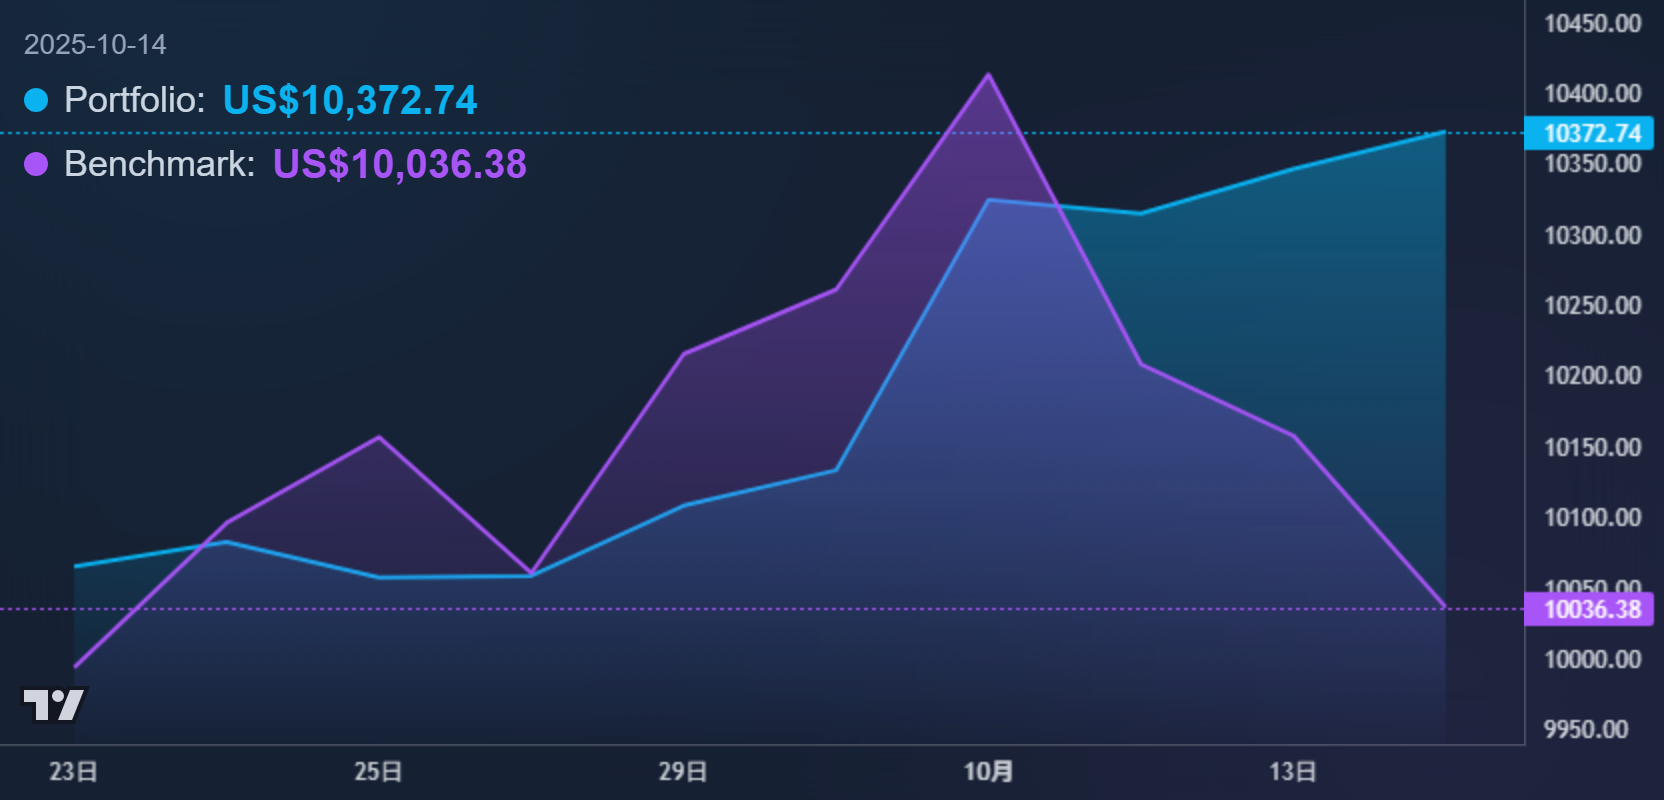
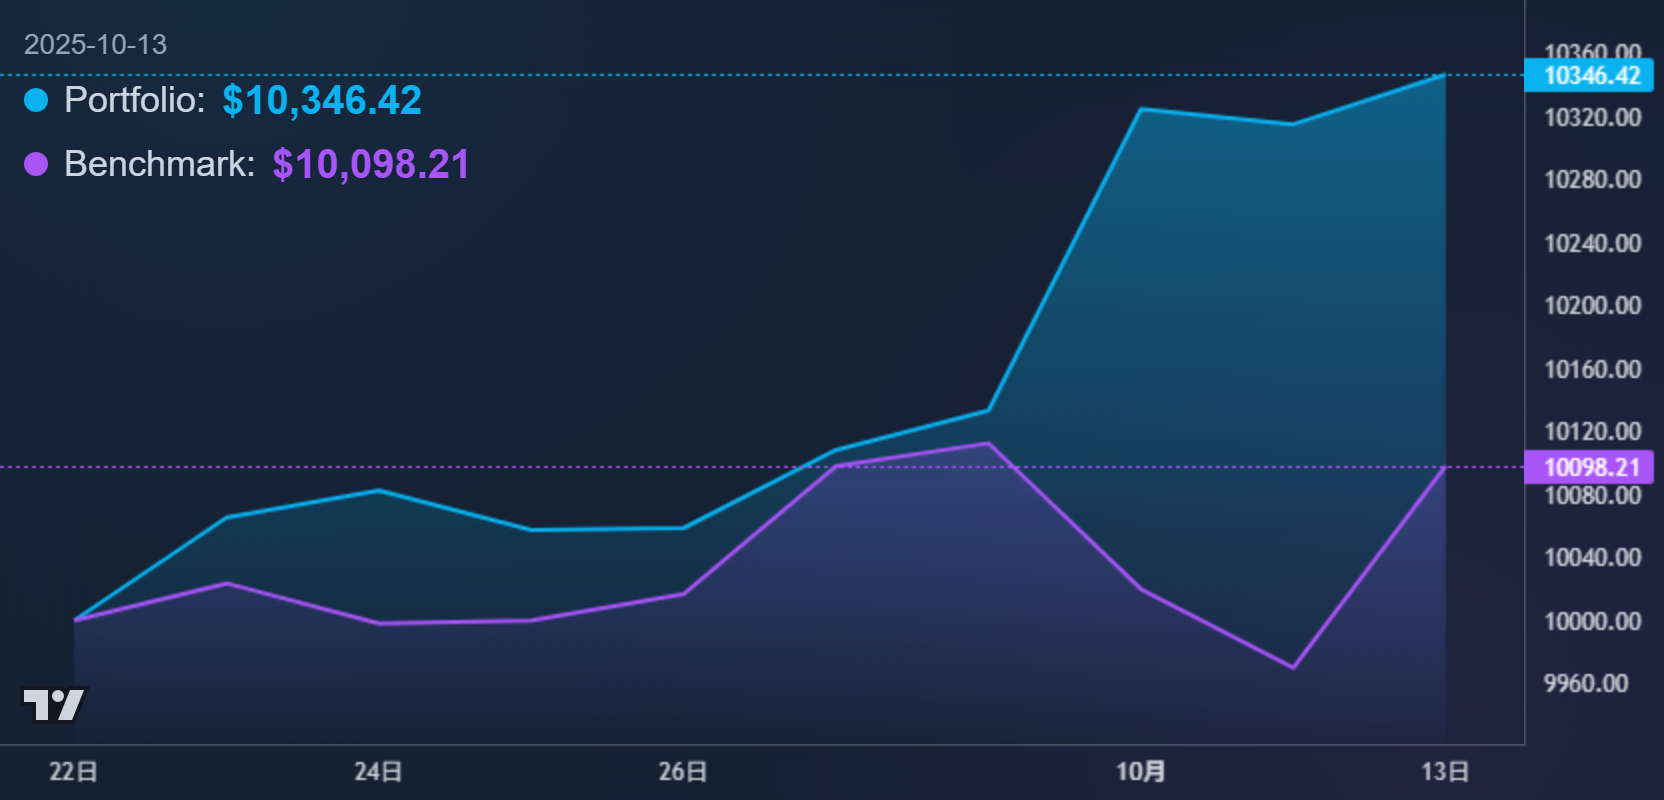
feat(数据生成): 更新基准ticker为ALLW并改进回测逻辑
- 将基准ticker从000300更改为ALLW
- 使用美国东部时间检查缓存有效性
- 添加起始点数据到图表数据中
- 根据基准最新日期对齐回测结束日期
- 更新前端显示基准ticker名称

diff --git a/pages/index.html b/pages/index.html
@@ -163,6 +163,8 @@
     </footer>
 
     <script>
+      let benchmarkTickerName = "Benchmark";
+
       document.addEventListener("DOMContentLoaded", () => {
         fetch("data.json", { cache: "no-store" }) // Use no-store to avoid caching of the data file
           .then((response) => {
@@ -243,7 +245,8 @@
           data.initialCapital.toLocaleString("en-US");
         document.getElementById("benchmark-ticker").textContent =
           data.benchmarkTicker;
-
+        benchmarkTickerName = data.benchmarkTicker;
+        //console.log(benchmarkTickerName);
         // --- Populate Metrics Table ---
         const m = data.metrics;
         setMetric("metric-total-return", m["Total Return"]);
@@ -335,7 +338,7 @@
                     </div>
                     <div class="flex items-center mt-1">
                         <div class="w-3 h-3 rounded-full bg-[#a855f7] mr-2"></div>
-                        <span class="text-slate-300 mr-2 text-lg">Benchmark:</span>
+                        <span class="text-slate-300 mr-2 text-lg">${benchmarkTickerName}:</span>
                         <span class="font-bold text-xl text-[#a855f7]">${bPrice}</span>
                     </div>
                 `;

diff --git a/generate_report.py b/generate_report.py
@@ -13,6 +13,7 @@ from playwright.sync_api import sync_playwright
 import threading
 import http.server
 import socketserver
+from zoneinfo import ZoneInfo # 新增导入，用于处理时区
 
 # --- 配置参数 ---
 
@@ -21,7 +22,8 @@ if not API_KEY:
     raise ValueError("ALPHAVANTAGE_API_KEY environment variable not set.")
 CACHE_DIR = "data_cache"
 TICKERS = ['513110.SHH', '518660.SHH', '159649.SHZ', '515450.SHH']
-BENCHMARK_TICKER = '000300.SHH'
+# 修改: 基准 Ticker 更改为 ALLW
+BENCHMARK_TICKER = 'ALLW'
 WEIGHTS = [0.25, 0.25, 0.25, 0.25]
 INITIAL_CAPITAL = 10000
 START_DATE = "2025-09-22"
@@ -31,8 +33,9 @@ OUTPUT_HTML_PATH = "pages/index.html"
 OUTPUT_JSON_PATH = "pages/data.json"
 
 
-# --- 数据获取模块 (保持不变) ---
+# --- 数据获取模块 ---
 def fetch_data_from_api(ticker, output_size='full'):
+    # ... (此函数保持不变) ...
     print(f"\n--- Attempting to fetch data for {ticker} from API (outputsize={output_size}) ---")
     url = f'https://www.alphavantage.co/query?function=TIME_SERIES_DAILY&symbol={ticker}&apikey={API_KEY}'
     if output_size == 'full':
@@ -56,7 +59,7 @@ def fetch_data_from_api(ticker, output_size='full'):
         return None
 
 def get_data(ticker):
-    # ... (代码不变)
+    # ... (缓存逻辑保持不变) ...
     if not os.path.exists(CACHE_DIR):
         os.makedirs(CACHE_DIR)
     cache_path = os.path.join(CACHE_DIR, f"{ticker.replace('.', '_')}.csv")
@@ -66,8 +69,9 @@ def get_data(ticker):
             if cached_df.empty:
                  raise ValueError("Cache file is empty.")
             last_cached_date = cached_df.index.max().date()
-            today_utc8 = (datetime.now(timezone.utc) + timedelta(hours=8)).date()
-            if last_cached_date >= today_utc8:
+            # 修改: 使用美国东部时间检查缓存是否最新
+            today_eastern = datetime.now(ZoneInfo("America/New_York")).date()
+            if last_cached_date >= today_eastern:
                 print(f"Cache for {ticker} is already up-to-date for today ({last_cached_date}). Skipping API call.")
                 return cached_df['close']
             print(f"Cache for {ticker} is not current. Attempting incremental update.")
@@ -98,10 +102,15 @@ def get_data(ticker):
     print(f"CRITICAL: Failed to get any data for {ticker}.")
     return None
 
-# --- 回测模块 (保持不变) ---
-def run_backtest(assets_data, benchmark_data):
+# --- 回测模块 ---
+# 修改: 增加 end_date 参数以对齐时间序列
+def run_backtest(assets_data, benchmark_data, end_date):
     print("Running backtest..."); portfolio_data = pd.concat(assets_data, axis=1); portfolio_data.columns = TICKERS
-    portfolio_data = portfolio_data.loc[START_DATE:]; portfolio_data = portfolio_data.ffill().bfill()
+    # 修改: 使用基准的最新日期作为回测结束日期
+    print(f"Aligning all data to end date: {end_date.strftime('%Y-%m-%d')}")
+    portfolio_data = portfolio_data.loc[START_DATE:end_date]
+    portfolio_data = portfolio_data.ffill().bfill()
+    
     if portfolio_data.empty: return None, None
     returns = portfolio_data.pct_change(); portfolio_value = pd.Series(index=portfolio_data.index, dtype=float); portfolio_value.iloc[0] = INITIAL_CAPITAL
     asset_values = portfolio_value.iloc[0] * np.array(WEIGHTS); last_rebalance_year = portfolio_value.index[0].year
@@ -119,8 +128,9 @@ def run_backtest(assets_data, benchmark_data):
     benchmark_returns = benchmark_returns.loc[common_index]
     return portfolio_returns, benchmark_returns
 
-# --- JSON 数据生成模块 (保持不变) ---
+# --- JSON 数据生成模块 ---
 def generate_data_json(portfolio_returns=None, benchmark_returns=None, is_future=False):
+   
     print("Generating data.json...")
     output_data = {}
     if is_future or portfolio_returns is None or portfolio_returns.empty:
@@ -148,9 +158,20 @@ def generate_data_json(portfolio_returns=None, benchmark_returns=None, is_future
         portfolio_cumulative = (1 + portfolio_returns).cumprod() * INITIAL_CAPITAL
         benchmark_cumulative = (1 + benchmark_returns).cumprod() * INITIAL_CAPITAL
 
+        # 从累积数据生成图表数据
         chart_data_portfolio = [{"time": date.strftime('%Y-%m-%d'), "value": round(value, 2)} for date, value in portfolio_cumulative.items()]
         chart_data_benchmark = [{"time": date.strftime('%Y-%m-%d'), "value": round(value, 2)} for date, value in benchmark_cumulative.items()]
         
+        # --- 修改: 添加起始点数据 (START_DATE, INITIAL_CAPITAL) ---
+        # 确保 START_DATE 格式正确
+        start_date_str = pd.to_datetime(START_DATE).strftime('%Y-%m-%d')
+        initial_point = {"time": start_date_str, "value": INITIAL_CAPITAL}
+        
+        # 将起始点插入到列表的最前面
+        chart_data_portfolio.insert(0, initial_point)
+        chart_data_benchmark.insert(0, initial_point)
+        # --- 修改结束 ---
+
         output_data = {
             "status": "success",
             "lastUpdated": datetime.now(timezone.utc).strftime('%Y-%m-%d %H:%M:%S') + " UTC",
@@ -166,27 +187,19 @@ def generate_data_json(portfolio_returns=None, benchmark_returns=None, is_future
         json.dump(output_data, f, ensure_ascii=False, indent=4)
     print(f"Successfully generated {OUTPUT_JSON_PATH}")
 
-# --- PNG 生成函数 (完全替换为这个新版本) ---
+
+# --- PNG 生成函数 (保持不变) ---
 def generate_png_from_html(html_path=OUTPUT_HTML_PATH, png_path=OUTPUT_PNG_PATH):
-    """通过启动本地服务器并使用Playwright访问来对图表进行截图"""
+    # ... (此函数保持不变) ...
     print(f"Starting PNG generation from {html_path}...")
     os.makedirs(os.path.dirname(png_path), exist_ok=True)
     
     PORT = 8008 # Use an uncommon port number
-    # SimpleHTTPRequestHandler 会自动寻找当前目录下的文件
     Handler = http.server.SimpleHTTPRequestHandler
-    
-    # 我们需要在项目根目录运行服务器，所以暂时切换目录
-    current_dir = os.getcwd()
-    # 假设你的 pages 目录在项目根目录下
-    # os.chdir(os.path.dirname(html_path))
-    # 更新：更好的方法是不切换目录，直接从根目录访问
-    
     httpd = socketserver.TCPServer(("", PORT), Handler)
     
-    # 启动一个后台线程来运行服务器
     server_thread = threading.Thread(target=httpd.serve_forever)
-    server_thread.daemon = True  # 确保主线程退出时，这个线程也会退出
+    server_thread.daemon = True
     server_thread.start()
     print(f"Local server started at http://localhost:{PORT}")
     
@@ -196,19 +209,16 @@ def generate_png_from_html(html_path=OUTPUT_HTML_PATH, png_path=OUTPUT_PNG_PATH)
             browser = p.chromium.launch()
             page = browser.new_page(
                 viewport={"width": 1024, "height": 768},
-                device_scale_factor=2 # 提高截图清晰度
+                device_scale_factor=2
             )
-            # 访问由本地服务器提供的页面
-            # html_path 已经是 'pages/index.html'
             page_url = f'http://localhost:{PORT}/{html_path}'
             print(f"Playwright going to: {page_url}")
             page.goto(page_url, wait_until='networkidle')
             
-            # 等待图表容器元素出现
             chart_element = page.locator('#chart-container')
-            chart_element.wait_for(state='visible', timeout=10000) # 等待图表完全加载
+            chart_element.wait_for(state='visible', timeout=10000)
             
-            page.wait_for_timeout(3000) # 额外等待5秒，确保图表完全加载 
+            page.wait_for_timeout(3000)
             print("Taking screenshot...")
             chart_element.screenshot(path=png_path)
             browser.close()
@@ -218,38 +228,53 @@ def generate_png_from_html(html_path=OUTPUT_HTML_PATH, png_path=OUTPUT_PNG_PATH)
         print(f"Error during PNG generation: {e}")
         success = False
     finally:
-        # 无论成功与否，都关闭服务器
         print("Shutting down local server...")
         httpd.shutdown()
         httpd.server_close()
-        # os.chdir(current_dir) # 切换回原来的目录
         print("Server stopped.")
         
     return success
 
-# --- 主执行逻辑 (保持不变) ---
+# --- 主执行逻辑 ---
 if __name__ == "__main__":
+    # 修改: 将时间检查基准改为美国东部时间
     current_utc = datetime.now(timezone.utc)
-    utc_plus_8_time = current_utc + timedelta(hours=8)
-    if not (19 <= utc_plus_8_time.hour < 23):
-        print(f"Execution stopped. Current time {utc_plus_8_time.strftime('%Y-%m-%d %H:%M:%S')} UTC+8 is outside the allowed window (19:00 - 23:00).")
+    try:
+        eastern_time = current_utc.astimezone(ZoneInfo("America/New_York"))
+    except Exception as e:
+        print(f"Could not determine Eastern Time: {e}. Exiting.")
+        sys.exit(1)
+
+    # 修改: 暂时允许在23:00后继续运行, 但不建议在23:00后运行
+    if not ((19 <= eastern_time.hour < 23) or True):
+        print(f"Execution stopped. Current time {eastern_time.strftime('%Y-%m-%d %H:%M:%S')} US Eastern Time is outside the allowed window (19:00 - 23:00).")
         sys.exit()
-    print(f"Current time {utc_plus_8_time.strftime('%Y-%m-%d %H:%M:%S')} UTC+8 is within the allowed window. Starting process...")
+    
+    print(f"Current time {eastern_time.strftime('%Y-%m-%d %H:%M:%S')} US Eastern Time is within the allowed window. Starting process...")
+
     if not API_KEY or API_KEY == "YOUR_API_KEY_HERE": 
         raise ValueError("Alpha Vantage API Key not found. Please set it as an environment variable.")
+    
     all_tickers = TICKERS + [BENCHMARK_TICKER]
     all_data = {ticker: get_data(ticker) for ticker in all_tickers}
+    
     if any(data is None for data in all_data.values()): 
         print("\nCritical Error: Failed to get data for one or more tickers.")
     else:
         assets_data = [all_data[ticker] for ticker in TICKERS]
         benchmark_data = all_data[BENCHMARK_TICKER]
+        
+        # 修改: 确定基准的最新日期作为回测结束日
+        latest_date = benchmark_data.index.max()
+        
         portfolio_returns, benchmark_returns = None, None
         try:
-            portfolio_returns, benchmark_returns = run_backtest(assets_data, benchmark_data)
+            # 修改: 将最新日期传递给回测函数
+            portfolio_returns, benchmark_returns = run_backtest(assets_data, benchmark_data, end_date=latest_date)
             print("Backtest completed successfully.")
         except Exception as e:
             print(f"Error during backtest: {e}")
+        
         if portfolio_returns is None or portfolio_returns.empty:
             print("Backtest resulted in no data, likely because start date is in the future.")
             generate_data_json(is_future=True)
